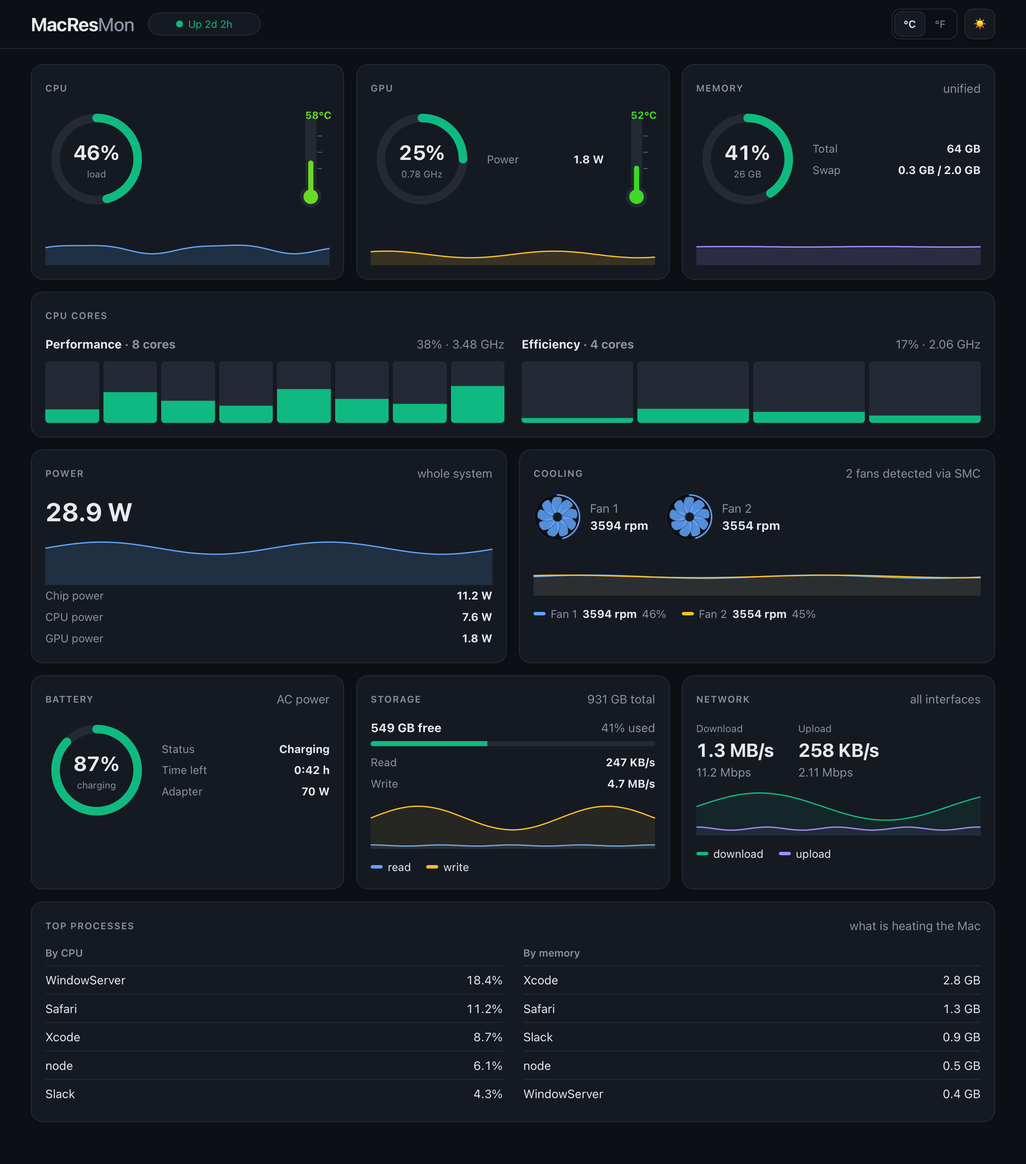
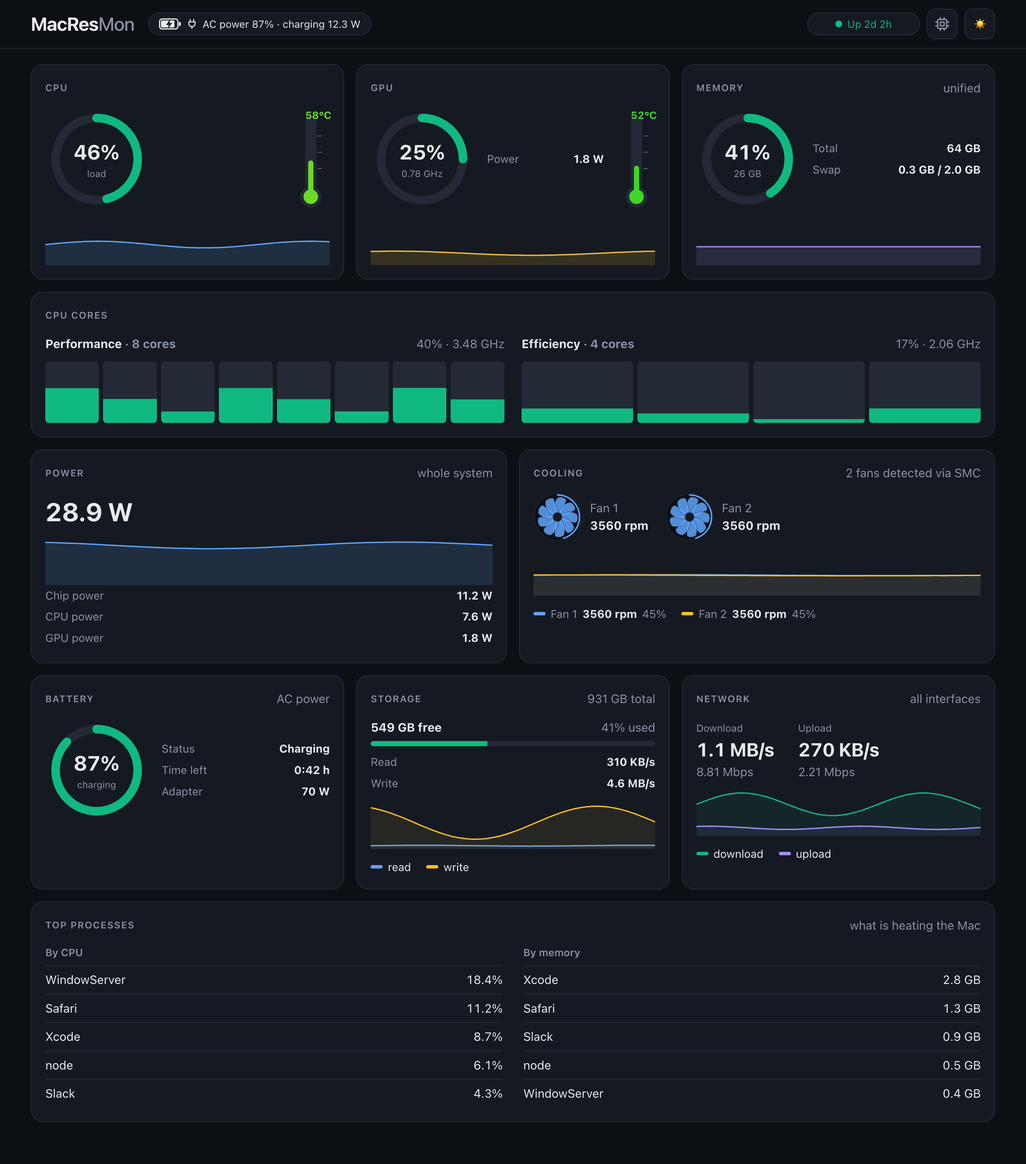
Add PowerBadge and MachineButton components; enhance battery and machine data handling

diff --git a/src/styles.css b/src/styles.css
@@ -3,12 +3,15 @@
   --accent: #3b82f6; --accent2: #f59e0b; --accent3: #8b5cf6;
   --good: #10b981; --warn: #f59e0b; --bad: #ef4444;
   --shadow: 0 1px 2px rgba(16, 24, 40, .06), 0 4px 16px rgba(16, 24, 40, .04);
+  --pop: #fff; --scrim: rgba(15, 23, 42, .38); --pop-shadow: 0 0 0 1px rgba(15, 23, 42, .06), 0 28px 64px -12px rgba(15, 23, 42, .45), 0 8px 24px rgba(15, 23, 42, .16);
 }
 @media (prefers-color-scheme: dark) {
   :root:not([data-theme]) { --bg: #0c0f14; --card: #151a22; --text: #e8eaee; --muted: #8a93a3; --line: #232a35; --track: #232a35;
-    --accent: #60a5fa; --accent2: #fbbf24; --accent3: #a78bfa; --shadow: none; }
+    --accent: #60a5fa; --accent2: #fbbf24; --accent3: #a78bfa; --shadow: none;
+    --pop: #1d2531; --scrim: rgba(0, 0, 0, .55); --pop-shadow: 0 0 0 1px rgba(255, 255, 255, .06), 0 28px 64px -12px rgba(0, 0, 0, .85), 0 8px 24px rgba(0, 0, 0, .5); }
 }
-:root[data-theme="dark"] { --bg: #0c0f14; --card: #151a22; --text: #e8eaee; --muted: #8a93a3; --line: #232a35; --track: #232a35; --accent: #60a5fa; --accent2: #fbbf24; --accent3: #a78bfa; --shadow: none; }
+:root[data-theme="dark"] { --bg: #0c0f14; --card: #151a22; --text: #e8eaee; --muted: #8a93a3; --line: #232a35; --track: #232a35; --accent: #60a5fa; --accent2: #fbbf24; --accent3: #a78bfa; --shadow: none;
+  --pop: #1d2531; --scrim: rgba(0, 0, 0, .55); --pop-shadow: 0 0 0 1px rgba(255, 255, 255, .06), 0 28px 64px -12px rgba(0, 0, 0, .85), 0 8px 24px rgba(0, 0, 0, .5); }
 
 * { box-sizing: border-box; }
 body { margin: 0; background: var(--bg); color: var(--text); font: 14px/1.45 -apple-system, BlinkMacSystemFont, "Inter", system-ui, sans-serif; -webkit-font-smoothing: antialiased; }
@@ -21,13 +24,42 @@ h2 { font-size: 11px; text-transform: uppercase; letter-spacing: .08em; color: v
 .topbar { position: sticky; top: 0; z-index: 30; background: color-mix(in srgb, var(--bg) 85%, transparent); -webkit-backdrop-filter: blur(12px); backdrop-filter: blur(12px); border-bottom: 1px solid var(--line); }
 .topbar-in { max-width: 1160px; margin: 0 auto; padding: 10px 16px; display: flex; align-items: center; gap: 12px 16px; flex-wrap: wrap; }
 .topbar-in .badges { flex: 1 1 200px; min-width: 0; }
-.tb-right { display: flex; gap: 8px; margin-left: auto; }
+.tb-right { display: flex; align-items: center; gap: 8px; margin-left: auto; }
+
+/* "This Mac" popover: opens under the header button, animated with transform/opacity only. */
+.mp { position: relative; }
+.mp-pop { position: absolute; right: 0; top: calc(100% + 8px); z-index: 40; width: max-content; max-width: min(440px, calc(100vw - 32px)); padding: 16px; background: var(--pop); border: 1px solid color-mix(in srgb, var(--text) 16%, var(--line)); border-radius: 16px; box-shadow: var(--pop-shadow); transform-origin: calc(100% - 18px) -8px; animation: mp-in .22s cubic-bezier(.2, .9, .3, 1.15) both; }
+.mp-pop.out { animation: mp-out .14s ease-in both; }
+.mp-pop::before { content: ""; position: absolute; top: -6px; right: 12px; width: 10px; height: 10px; background: var(--pop); border-left: 1px solid color-mix(in srgb, var(--text) 16%, var(--line)); border-top: 1px solid color-mix(in srgb, var(--text) 16%, var(--line)); transform: rotate(45deg); border-top-left-radius: 3px; }
+.mp-pop .chip { animation: mp-chip .3s ease-out both; }
+.mp-pop .chip:nth-child(2) { animation-delay: .03s; } .mp-pop .chip:nth-child(3) { animation-delay: .06s; } .mp-pop .chip:nth-child(4) { animation-delay: .09s; }
+.mp-pop .chip:nth-child(5) { animation-delay: .12s; } .mp-pop .chip:nth-child(6) { animation-delay: .15s; } .mp-pop .chip:nth-child(7) { animation-delay: .18s; }
+/* Dims the page under the popover (below the header, so the button stays bright); opacity only, no blur. */
+.mp-scrim { position: fixed; inset: 0; z-index: 25; background: var(--scrim); animation: mp-fade .18s ease-out both; }
+.mp-scrim.out { animation: mp-fade-out .14s ease-in both; }
+@keyframes mp-fade { from { opacity: 0; } }
+@keyframes mp-fade-out { to { opacity: 0; } }
+@keyframes mp-in { from { opacity: 0; transform: translateY(-8px) scale(.94); } }
+@keyframes mp-out { to { opacity: 0; transform: translateY(-6px) scale(.96); } }
+@keyframes mp-chip { from { opacity: 0; transform: translateY(6px); } }
+@keyframes mp-fill { from { transform: scaleX(0); } }
+@media (prefers-reduced-motion: reduce) { .mp-scrim, .mp-pop, .mp-pop .chip, .chip.filled::before, .pw-weak { animation: none; } }
+.mp-name { display: flex; align-items: baseline; gap: 4px 12px; flex-wrap: wrap; margin-bottom: 12px; }
+.mp-name b { font-size: 20px; letter-spacing: -.02em; }
+.chips { display: flex; gap: 10px; flex-wrap: wrap; }
+.chip { background: var(--bg); border-radius: 10px; padding: 6px 12px; min-width: 80px; }
+.chip small { display: block; color: var(--muted); font-size: 11px; } .chip b { font-size: 17px; font-variant-numeric: tabular-nums; }
+.chip.filled { position: relative; overflow: hidden; isolation: isolate; }
+.chip.filled::before { content: ""; position: absolute; inset: 0 auto 0 0; width: var(--f); z-index: -1; background: color-mix(in srgb, var(--c) 38%, var(--bg)); transform-origin: left; animation: mp-fill .7s .15s cubic-bezier(.2, .8, .2, 1) both; }
 .icon-btn { width: 36px; height: 36px; display: grid; place-items: center; border-radius: 10px; border: 1px solid var(--line); background: var(--card); color: var(--muted); cursor: pointer; transition: color .15s, background-color .15s, border-color .15s; }
 .icon-btn:hover { color: var(--accent); border-color: color-mix(in srgb, var(--accent) 45%, var(--line)); background: color-mix(in srgb, var(--accent) 10%, var(--card)); }
 .icon-btn:active { transform: scale(.94); }
 .icon-btn:focus-visible { outline: 2px solid var(--accent); outline-offset: 3px; }
 .badges { display: flex; gap: 8px; align-items: center; }
 .badge { padding: 4px 12px; border-radius: 99px; border: 1px solid var(--line); background: var(--card); font-size: 12px; display: inline-flex; align-items: center; gap: 6px; }
+.pw-ico { flex: none; }
+.pw-weak { color: var(--warn); animation: pw-blink 1s ease-in-out infinite; }
+@keyframes pw-blink { 50% { opacity: .15; } }
 .badge i { width: 8px; height: 8px; border-radius: 50%; background: currentColor; }
 .badge.status { box-sizing: border-box; width: 132px; justify-content: center; flex: none; white-space: nowrap; }
 .badge.ok { color: var(--good); } .badge.busy { color: var(--warn); } .badge.down { color: var(--bad); }

diff --git a/native/Sources/CoreChecks/main.swift b/native/Sources/CoreChecks/main.swift
@@ -49,6 +49,14 @@ check("parseBattery on AC, not charging", ac?.percent == 80 && ac?.onBattery == 
 let dis = parseBattery("Now drawing from 'Battery Power'\n -InternalBattery-0 (id=1)\t55%; discharging; 3:41 remaining present: true")
 check("parseBattery discharging with time left", dis?.percent == 55 && dis?.onBattery == true && dis?.remaining == "3:41" && dis?.adapterW == nil, "\(String(describing: dis))")
 check("parseBattery charging; no battery -> nil", parseBattery("Now drawing from 'AC Power'\n -InternalBattery-0 (id=1)\t40%; charging; 1:10 remaining present: true")?.charging == true && parseBattery("Now drawing from 'AC Power'\n") == nil && parseBattery("") == nil)
+let chargeIO = "  | |   \"Amperage\" = 1500\n  | |   \"Voltage\" = 12900\n"
+let drainIO = "  | |   \"Amperage\" = 18446744073709550116\n  | |   \"Voltage\" = 12000\n"   // -1500 mA as ioreg prints it
+check("parseBatteryPower: charging +, discharging -, missing -> nil", abs((parseBatteryPower(chargeIO) ?? 0) - 19.35) < 0.001 && abs((parseBatteryPower(drainIO) ?? 0) + 18.0) < 0.001 && parseBatteryPower("") == nil)
+check("parseBattery carries battery watts", parseBattery("Now drawing from 'Battery Power'\n -InternalBattery-0 (id=1)\t55%; discharging; 3:41 remaining present: true", power: drainIO)?.batteryW != nil && ac?.batteryW == nil)
+let profiler = #"{"SPHardwareDataType":[{"machine_name":"MacBook Pro","machine_model":"Mac17,7","chip_type":"Apple M5 Pro","physical_memory":"64 GB"}],"SPDisplaysDataType":[{"sppci_cores":"20"}]}"#
+let mach = parseMachine(profiler: profiler, os: "26.1", tiers: [Tier(name: "Super", cores: 6), Tier(name: "Performance", cores: 12)])
+check("parseMachine reads chip, model, memory, GPU cores, tiers", mach.chip == "Apple M5 Pro" && mach.name == "MacBook Pro" && mach.model == "Mac17,7" && mach.memory == "64 GB" && mach.gpuCores == 20 && mach.os == "26.1" && mach.tiers.map(\.cores) == [6, 12])
+check("parseMachine survives garbage", parseMachine(profiler: "nope", os: "", tiers: []).chip == nil)
 
 let d = parseDisk("Filesystem 1024-blocks Used Available Capacity iused ifree %iused Mounted on\n/dev/disk3s5 1948404040 636512180 1281897480 34% 1 2 0% /System/Volumes/Data")
 check("parseDisk total and free bytes", d?.total == 1948404040 * 1024 && d?.free == 1281897480 * 1024 && parseDisk("") == nil)
@@ -57,14 +65,14 @@ check("rate gives bytes/second and rejects bad input", rate(1000, 3000, dtMs: 10
 
 // ---- snapshot ----
 var sys = SystemSample()
-sys.netIn = 1000; sys.battery = ac; sys.procs = procs
+sys.netIn = 1000; sys.battery = ac; sys.procs = procs; sys.machine = mach
 let pt = historyPoint(hw: hw, sys: sys, ts: 1)
 let snap = snapshotDictionary(hw: hw, sys: sys, error: nil, sensorTs: 5, ts: 6, uptime: 3, point: pt)
 let json = jsonString(snap)
 check("snapshot reports the refresh interval", (snap["intervalMs"] as? Int) == 1000 && (snapshotDictionary(hw: hw, sys: sys, error: nil, sensorTs: 5, ts: 6, uptime: 3, point: pt, intervalMs: 500)["intervalMs"] as? Int) == 500)
 check("snapshot carries the temperature unit", (snap["unit"] as? String) == "C" && (snapshotDictionary(hw: hw, sys: sys, error: nil, sensorTs: 5, ts: 6, uptime: 3, point: pt, unit: .fahrenheit)["unit"] as? String) == "F")
 let back = (try? JSONSerialization.jsonObject(with: Data(json.utf8))) as? [String: Any] ?? [:]
-check("snapshot has the keys the UI reads", ["cpu", "clusters", "fans", "procs", "battery", "disk", "net", "diskIO", "source", "sensorTs", "ts", "uptime", "intervalMs", "unit", "point"].allSatisfy { back[$0] != nil }, "\(back.keys.sorted())")
+check("snapshot has the keys the UI reads", ["cpu", "clusters", "fans", "procs", "battery", "disk", "net", "diskIO", "source", "sensorTs", "ts", "uptime", "intervalMs", "unit", "machine", "point"].allSatisfy { back[$0] != nil }, "\(back.keys.sorted())")
 check("snapshot round-trips as JSON with null for missing values", (back["disk"] is NSNull) && ((back["point"] as? [String: Any])?["diskR"] is NSNull) && ((back["net"] as? [String: Any])?["in"] as? Double) == 1000)
 let err = snapshotDictionary(hw: nil, sys: SystemSample(), error: "macmon not found", sensorTs: nil, ts: 6, uptime: 0, point: nil)
 check("without hardware the snapshot carries an error and no cpu", (err["error"] as? String) == "macmon not found" && err["cpu"] == nil)

diff --git a/native/Sources/MonitorCore/System.swift b/native/Sources/MonitorCore/System.swift
@@ -11,9 +11,22 @@ public struct Proc {
 public struct Battery {
     public var percent: Int, onBattery: Bool, charging: Bool
     public var state: String, remaining: String?, adapterW: Int?
-    public init(percent: Int, onBattery: Bool, charging: Bool, state: String, remaining: String?, adapterW: Int?) {
-        self.percent = percent; self.onBattery = onBattery; self.charging = charging; self.state = state; self.remaining = remaining; self.adapterW = adapterW
+    /// Watts into (+) or out of (-) the battery; nil when unknown.
+    public var batteryW: Double?
+    public init(percent: Int, onBattery: Bool, charging: Bool, state: String, remaining: String?, adapterW: Int?, batteryW: Double? = nil) {
+        self.percent = percent; self.onBattery = onBattery; self.charging = charging; self.state = state; self.remaining = remaining; self.adapterW = adapterW; self.batteryW = batteryW
     }
+}
+public struct Tier {
+    public var name: String; public var cores: Int
+    public init(name: String, cores: Int) { self.name = name; self.cores = cores }
+}
+/// Static facts about this Mac, read once.
+public struct Machine {
+    public var name: String?, model: String?, chip: String?, os: String?, memory: String?
+    public var gpuCores: Int?
+    public var tiers: [Tier] = []
+    public init() {}
 }
 public struct Disk {
     public var total: Double; public var free: Double
@@ -36,8 +49,35 @@ public func topBy(_ procs: [Proc], _ key: (Proc) -> Double, count: Int = 5) -> [
     Array(procs.sorted { key($0) > key($1) }.prefix(count))
 }
 
-/// `pmset -g batt` (+ `pmset -g ac` for adapter watts) -> battery, or nil on a Mac without one.
-public func parseBattery(_ batt: String, ac: String = "") -> Battery? {
+/// `ioreg -rn AppleSmartBattery` -> watts into (+) or out of (-) the battery (voltage x current), or nil.
+public func parseBatteryPower(_ ioreg: String) -> Double? {
+    func value(_ key: String) -> UInt64? {
+        guard let r = ioreg.range(of: "\"\(key)\" = (\\d+)", options: .regularExpression) else { return nil }
+        return UInt64(ioreg[r].filter(\.isNumber))
+    }
+    guard let a = value("Amperage"), let v = value("Voltage") else { return nil }
+    // The current is a signed 64-bit number that ioreg prints as unsigned (a discharge shows as 2^64 - mA).
+    return Double(Int64(bitPattern: a)) * Double(v) / 1e6
+}
+
+/// `system_profiler -json SPHardwareDataType SPDisplaysDataType` + macOS version + core tiers -> machine facts.
+public func parseMachine(profiler: String, os: String, tiers: [Tier]) -> Machine {
+    var m = Machine()
+    let root = (try? JSONSerialization.jsonObject(with: Data(profiler.utf8))) as? [String: Any] ?? [:]
+    let hw = (root["SPHardwareDataType"] as? [[String: Any]])?.first ?? [:]
+    let gpu = (root["SPDisplaysDataType"] as? [[String: Any]])?.first ?? [:]
+    m.name = hw["machine_name"] as? String
+    m.model = hw["machine_model"] as? String
+    m.chip = hw["chip_type"] as? String
+    m.memory = hw["physical_memory"] as? String
+    m.gpuCores = (gpu["sppci_cores"] as? String).flatMap { Int($0) }
+    m.os = os.isEmpty ? nil : os
+    m.tiers = tiers
+    return m
+}
+
+/// `pmset -g batt` (+ `pmset -g ac` for adapter watts, + `ioreg -rn AppleSmartBattery` for battery watts) -> battery, or nil on a Mac without one.
+public func parseBattery(_ batt: String, ac: String = "", power: String = "") -> Battery? {
     guard let line = batt.split(separator: "\n").first(where: { $0.contains("InternalBattery") }) else { return nil }
     var text = String(line)
     if let r = text.range(of: #"\s+present:.*$"#, options: .regularExpression) { text.removeSubrange(r) }
@@ -54,7 +94,7 @@ public func parseBattery(_ batt: String, ac: String = "") -> Battery? {
     if !onBattery, let r = ac.range(of: #"Wattage\s*=\s*(\d+)\s*W"#, options: [.regularExpression, .caseInsensitive]) {
         adapter = Int(ac[r].filter(\.isNumber))
     }
-    return Battery(percent: percent, onBattery: onBattery, charging: state == "charging", state: state, remaining: remaining, adapterW: adapter)
+    return Battery(percent: percent, onBattery: onBattery, charging: state == "charging", state: state, remaining: remaining, adapterW: adapter, batteryW: parseBatteryPower(power))
 }
 
 /// `df -k <path>` -> total and free bytes.

diff --git a/src/MachineButton.jsx b/src/MachineButton.jsx
@@ -1,0 +1,56 @@
+import { useEffect, useRef, useState } from 'react';
+import { createPortal } from 'react-dom';
+import { heat } from './ui.jsx';
+import { gb, pct } from './format.js';
+
+// A plain tile; with `fill` (0..1) the tile itself is filled from the left, in `color`, to show how full something is.
+function Chip({ label, value, fill, color }) {
+  return (
+    <div className={'chip' + (fill != null ? ' filled' : '')} style={fill != null ? { '--c': color, '--f': `${Math.min(100, Math.max(fill > 0 ? 3 : 0, fill * 100))}%` } : undefined} title={fill != null ? pct(fill) + ' full' : undefined}>
+      <small>{label}</small><b>{value}</b>
+    </div>
+  );
+}
+
+// "This Mac" button in the header: chip, macOS, core counts, memory and disk in a popover, closed by a click outside or Esc.
+// `m` is the machine facts from the snapshot, `ram` = { used, total } in bytes, `disk` = { total, free }.
+export default function MachineButton({ m, ram, disk, initialOpen = false }) {
+  const [open, setOpen] = useState(initialOpen);
+  const [leaving, setLeaving] = useState(false); // plays the closing animation before the popover is removed
+  const box = useRef(null);
+  const close = () => { setLeaving(true); setTimeout(() => { setOpen(false); setLeaving(false); }, 140); };
+  useEffect(() => {
+    if (!open) return undefined;
+    const away = (e) => { if (!box.current?.contains(e.target)) close(); };
+    const esc = (e) => { if (e.key === 'Escape') close(); };
+    document.addEventListener('pointerdown', away);
+    document.addEventListener('keydown', esc);
+    return () => { document.removeEventListener('pointerdown', away); document.removeEventListener('keydown', esc); };
+  }, [open]);
+  if (!m) return null;
+  const tiers = Array.isArray(m.tiers) ? m.tiers : [];
+  const used = ram?.total > 0 ? ram.used / ram.total : null;
+  const diskUsed = disk?.total > 0 ? 1 - disk.free / disk.total : null;
+  // The scrim is a portal: the header's backdrop-filter would otherwise confine a fixed element to the header.
+  const scrim = open && typeof document !== 'undefined' ? createPortal(<div className={'mp-scrim' + (leaving ? ' out' : '')} />, document.body) : null;
+  return (
+    <div className="mp" ref={box}>
+      {scrim}
+      <button className={'icon-btn' + (open && !leaving ? ' on' : '')} onClick={() => (open && !leaving ? close() : leaving ? null : setOpen(true))} aria-label="This Mac" aria-expanded={open && !leaving} aria-haspopup="dialog" title="This Mac">
+        <svg width="18" height="18" viewBox="0 0 24 24" fill="none" stroke="currentColor" strokeWidth="2" strokeLinecap="round" strokeLinejoin="round" aria-hidden="true"><rect x="5" y="5" width="14" height="14" rx="2" /><rect x="9" y="9" width="6" height="6" rx="1" /><path d="M9 2v3M15 2v3M9 19v3M15 19v3M2 9h3M2 15h3M19 9h3M19 15h3" /></svg>
+      </button>
+      {open && (
+        <div className={'mp-pop' + (leaving ? ' out' : '')} role="dialog" aria-label="This Mac" title={[m.name, m.model && `(${m.model})`].filter(Boolean).join(' ') || undefined}>
+          <div className="mp-name"><b>{m.chip || m.name || 'This Mac'}</b>{m.os && <span className="muted">macOS {m.os}</span>}</div>
+          <div className="chips">
+            <Chip label="CPU cores" value={m.cores ?? '–'} />
+            {tiers.map((t) => <Chip key={t.name} label={`${t.name} cores`} value={t.cores} />)}
+            <Chip label="GPU cores" value={m.gpuCores ?? '–'} />
+            {used != null ? <Chip label="Memory used" value={`${gb(ram.used)} / ${gb(ram.total)}`} fill={used} color={heat(used)} /> : <Chip label="Memory" value={m.memory ?? '–'} />}
+            {diskUsed != null && <Chip label="Disk used" value={`${gb(disk.total - disk.free)} / ${gb(disk.total)}`} fill={diskUsed} color={heat(diskUsed)} />}
+          </div>
+        </div>
+      )}
+    </div>
+  );
+}

diff --git a/native/Sources/MacResMon/Sampler.swift b/native/Sources/MacResMon/Sampler.swift
@@ -30,6 +30,7 @@ final class Sampler {
     private var stopped = false
     private var restartingMacmon = false
     private var _interval = 1.0
+    private var tierNames = ["Performance", "Efficiency"]
 
     /// Seconds between readings. Changing it restarts macmon with the new frame interval.
     var interval: Double {
@@ -43,7 +44,24 @@ final class Sampler {
         }
     }
 
+    /// Core tiers from sysctl, top tier first: Apple renamed them on M5 (Super / Performance), macmon still says P / E.
+    private func readTiers() -> [Tier] {
+        (0..<2).compactMap { i in
+            let name = run("/usr/sbin/sysctl", ["-n", "hw.perflevel\(i).name"]).trimmingCharacters(in: .whitespacesAndNewlines)
+            let cores = Int(run("/usr/sbin/sysctl", ["-n", "hw.perflevel\(i).physicalcpu"]).trimmingCharacters(in: .whitespacesAndNewlines))
+            return name.isEmpty || cores == nil ? nil : Tier(name: name, cores: cores!)
+        }
+    }
+
     func start() {
+        let tiers = readTiers()
+        if !tiers.isEmpty { tierNames = tiers.map(\.name) }
+        Thread.detachNewThread { [self] in   // system_profiler is slow (about a second): read the machine facts once, off the main path
+            let profiler = run("/usr/sbin/system_profiler", ["-json", "SPHardwareDataType", "SPDisplaysDataType"], timeout: 20)
+            let os = run("/usr/bin/sw_vers", ["-productVersion"]).trimmingCharacters(in: .whitespacesAndNewlines)
+            let m = parseMachine(profiler: profiler, os: os, tiers: tiers)
+            lock.lock(); system.machine = m; lock.unlock()
+        }
         DispatchQueue.global(qos: .utility).async { [self] in startMacmon() }
         Thread.detachNewThread { [self] in systemLoop() }
     }
@@ -93,7 +111,7 @@ final class Sampler {
                 buffer = rest
                 for o in objects {
                     guard let obj = try? JSONSerialization.jsonObject(with: Data(o.utf8)) as? [String: Any] else { continue }
-                    let hw = parseHardware(obj, tierNames: ["Performance", "Efficiency"])
+                    let hw = parseHardware(obj, tierNames: tierNames)
                     lock.lock(); hardware = hw; hardwareAt = nowMs(); macmonError = nil; lock.unlock()
                 }
             }
@@ -132,7 +150,8 @@ final class Sampler {
                 lastProcs = t
             }
             if t - lastBattery >= 10000 {  // battery: every 10 s
-                let b = parseBattery(run("/usr/bin/pmset", ["-g", "batt"]), ac: run("/usr/bin/pmset", ["-g", "ac"]))
+                let b = parseBattery(run("/usr/bin/pmset", ["-g", "batt"]), ac: run("/usr/bin/pmset", ["-g", "ac"]),
+                                     power: run("/usr/sbin/ioreg", ["-rn", "AppleSmartBattery"]))
                 lock.lock(); system.battery = b; lock.unlock()
                 lastBattery = t
             }

diff --git a/src/PowerBadge.jsx b/src/PowerBadge.jsx
@@ -1,0 +1,31 @@
+// Header badge for the power source: a battery glyph (fill = charge, bolt while on mains) and, on mains, a plug.
+// "AC power 80%" / "Battery 55% · draining 12.3 W · 3:41 left". The details are in the tooltip.
+export default function PowerBadge({ battery: b }) {
+  if (!b) return null;
+  const watts = b.batteryW ?? 0;
+  const low = b.onBattery && b.percent <= 20;
+  // On mains but still losing charge: the adapter is too weak. The plug blinks and the explanation is only in the tooltip.
+  const weak = !b.onBattery && watts < -0.5;
+  const adapter = b.adapterW && !b.onBattery ? `. Adapter: ${b.adapterW} W` : '';
+  const title = weak ? `AC power ${b.percent}% · adapter too weak, battery draining ${(-watts).toFixed(1)} W${adapter}`
+    : (b.onBattery ? 'Running on battery' : b.charging ? 'Plugged in, charging' : 'Plugged in, not charging') + adapter;
+  return (
+    <span className={'badge' + (low ? ' down' : b.onBattery ? ' busy' : '')} title={title}>
+      <svg className="pw-ico" viewBox="0 0 28 14" width="26" height="13" aria-hidden="true">
+        <rect x="0.75" y="0.75" width="23" height="12.5" rx="3" fill="none" stroke="currentColor" strokeWidth="1.5" />
+        <rect x="25" y="4.5" width="2.5" height="5" rx="1" fill="currentColor" />
+        <rect x="2.5" y="2.5" width={Math.max(1, (19.5 * b.percent) / 100)} height="9" rx="1.6" fill="currentColor" />
+        {!b.onBattery && <path d="M13.5 2l-4 6h3l-1 4 4.5-6h-3z" fill="var(--card)" stroke="var(--card)" strokeWidth=".6" strokeLinejoin="round" />}
+      </svg>
+      {!b.onBattery && (
+        <svg className={'pw-ico' + (weak ? ' pw-weak' : '')} viewBox="0 0 16 16" width="13" height="13" aria-hidden="true" fill="none" stroke="currentColor" strokeWidth="1.5" strokeLinecap="round" strokeLinejoin="round">
+          <path d="M5.5 1.5v3.5M10.5 1.5v3.5M3.5 5h9v2.5a4.5 4.5 0 0 1-9 0zM8 12v2.5" />
+        </svg>
+      )}
+      {b.onBattery ? 'Battery' : 'AC power'} {b.percent}%
+      {watts > 0.5 && ` · charging ${watts.toFixed(1)} W`}
+      {watts < -0.5 && b.onBattery && ` · draining ${(-watts).toFixed(1)} W`}
+      {b.onBattery && b.remaining && ` · ${b.remaining} left`}
+    </span>
+  );
+}

diff --git a/native/Sources/MonitorCore/Snapshot.swift b/native/Sources/MonitorCore/Snapshot.swift
@@ -7,6 +7,7 @@ public struct SystemSample {
     public var procs: [Proc] = []
     public var battery: Battery?
     public var disk: Disk?
+    public var machine: Machine?
     public var netIn, netOut, diskRead, diskWrite: Double?
     public init() {}
 }
@@ -47,7 +48,12 @@ public func snapshotDictionary(hw: Hardware?, sys: SystemSample, error: String?,
     s["procs"] = ["cpu": topBy(sys.procs, { $0.cpu }).map(procJSON), "mem": topBy(sys.procs, { $0.rss }).map(procJSON)]
     s["battery"] = sys.battery.map { b in
         ["percent": b.percent, "onBattery": b.onBattery, "charging": b.charging, "state": b.state,
-         "remaining": b.remaining ?? null, "adapterW": b.adapterW ?? null] as [String: Any]
+         "remaining": b.remaining ?? null, "adapterW": b.adapterW ?? null, "batteryW": b.batteryW ?? null] as [String: Any]
+    } ?? null
+    s["machine"] = sys.machine.map { m in
+        ["name": m.name ?? null, "model": m.model ?? null, "chip": m.chip ?? null, "os": m.os ?? null, "memory": m.memory ?? null,
+         "gpuCores": m.gpuCores ?? null, "cores": m.tiers.isEmpty ? null : m.tiers.reduce(0) { $0 + $1.cores } as Any,
+         "tiers": m.tiers.map { ["name": $0.name, "cores": $0.cores] as [String: Any] }] as [String: Any]
     } ?? null
     s["disk"] = sys.disk.map { ["total": $0.total, "free": $0.free] as [String: Any] } ?? null
     s["net"] = ["in": orNull(sys.netIn), "out": orNull(sys.netOut)]

diff --git a/src/App.jsx b/src/App.jsx
@@ -7,6 +7,8 @@ import Sparkline from './Sparkline.jsx';
 import CoolingCard from './CoolingCard.jsx';
 import MemoryCard from './Memory.jsx';
 import Alerts from './Alerts.jsx';
+import PowerBadge from './PowerBadge.jsx';
+import MachineButton from './MachineButton.jsx';
 import Processes from './Processes.jsx';
 import Battery from './Battery.jsx';
 import Storage from './Storage.jsx';
@@ -69,10 +71,12 @@ export default function App() {
         <div className="topbar-in">
           <h1>MacRes<span>Mon</span></h1>
           <div className="badges">
-            <span className={`badge status ${state[0]}`}><i /> {state[1]}</span>
+            <PowerBadge battery={snap.battery} />
             <Alerts alerts={alerts} />
           </div>
           <div className="tb-right">
+            <span className={`badge status ${state[0]}`}><i /> {state[1]}</span>
+            <MachineButton m={snap.machine} ram={{ used: snap.ramUsed, total: snap.ramTotal }} disk={snap.disk} />
             <button className="icon-btn" onClick={() => setTheme((t) => (t === 'dark' ? 'light' : 'dark'))} aria-label="Toggle light/dark theme" title="Toggle theme">
               {theme === 'dark' ? '☀' : '🌙'}
             </button>

diff --git a/README.md b/README.md
@@ -30,6 +30,7 @@ MacResMon monitors your Mac; it does not change fan speeds, CPU settings, or the
 - **Cooling**: a spinning rotor per fan (speed follows RPM), one filled graph with a line per fan, and a live legend with RPM and % of maximum
 - **CPU, GPU, memory**: load rings, thermometers in °C or °F, swap, 60-sample trends (one minute at the default interval), and a load column for every CPU core, grouped by Performance and Efficiency cluster
 - **Power and battery**: whole-system watts, chip (CPU + GPU + ANE + RAM), CPU and GPU power, charge level, charging state, time left and power adapter wattage
+- **Header**: a power-source badge ("AC power 80%", with charging or draining watts and time left on battery) and a **This Mac** button that opens the chip, macOS version, core counts per tier, GPU cores, and memory and disk usage. Hover the badge, the button or a core column for details
 - **Top processes**: top 5 by CPU and by memory, to answer "what is heating the Mac?"
 - **Storage and network**: free space, disk read/write speed, download and upload in MB/s and Mbps
 - **Menu bar**: a fan icon with a live readout (CPU % and temperature, `⚠` while an alert is active) and a menu with the details
@@ -210,6 +211,10 @@ For a shared-link preview, upload a 1280 × 640 PNG or JPG under 1 MB in **Setti
 Enable Issues for bug and model compatibility reports. Publish source with the MIT license and both README screenshots; keep generated build folders out of commits. For downloadable builds, attach the DMG to a versioned GitHub Release and document supported hardware, build provenance, and signing/notarization status. Add a README download link once the release asset is available.
 
 </details>
+
+## Star history
+
+[![Star History Chart](https://api.star-history.com/svg?repos=proars/MacResMon&type=Date)](https://star-history.com/#proars/MacResMon&Date)
 
 ## Credits and license
 
